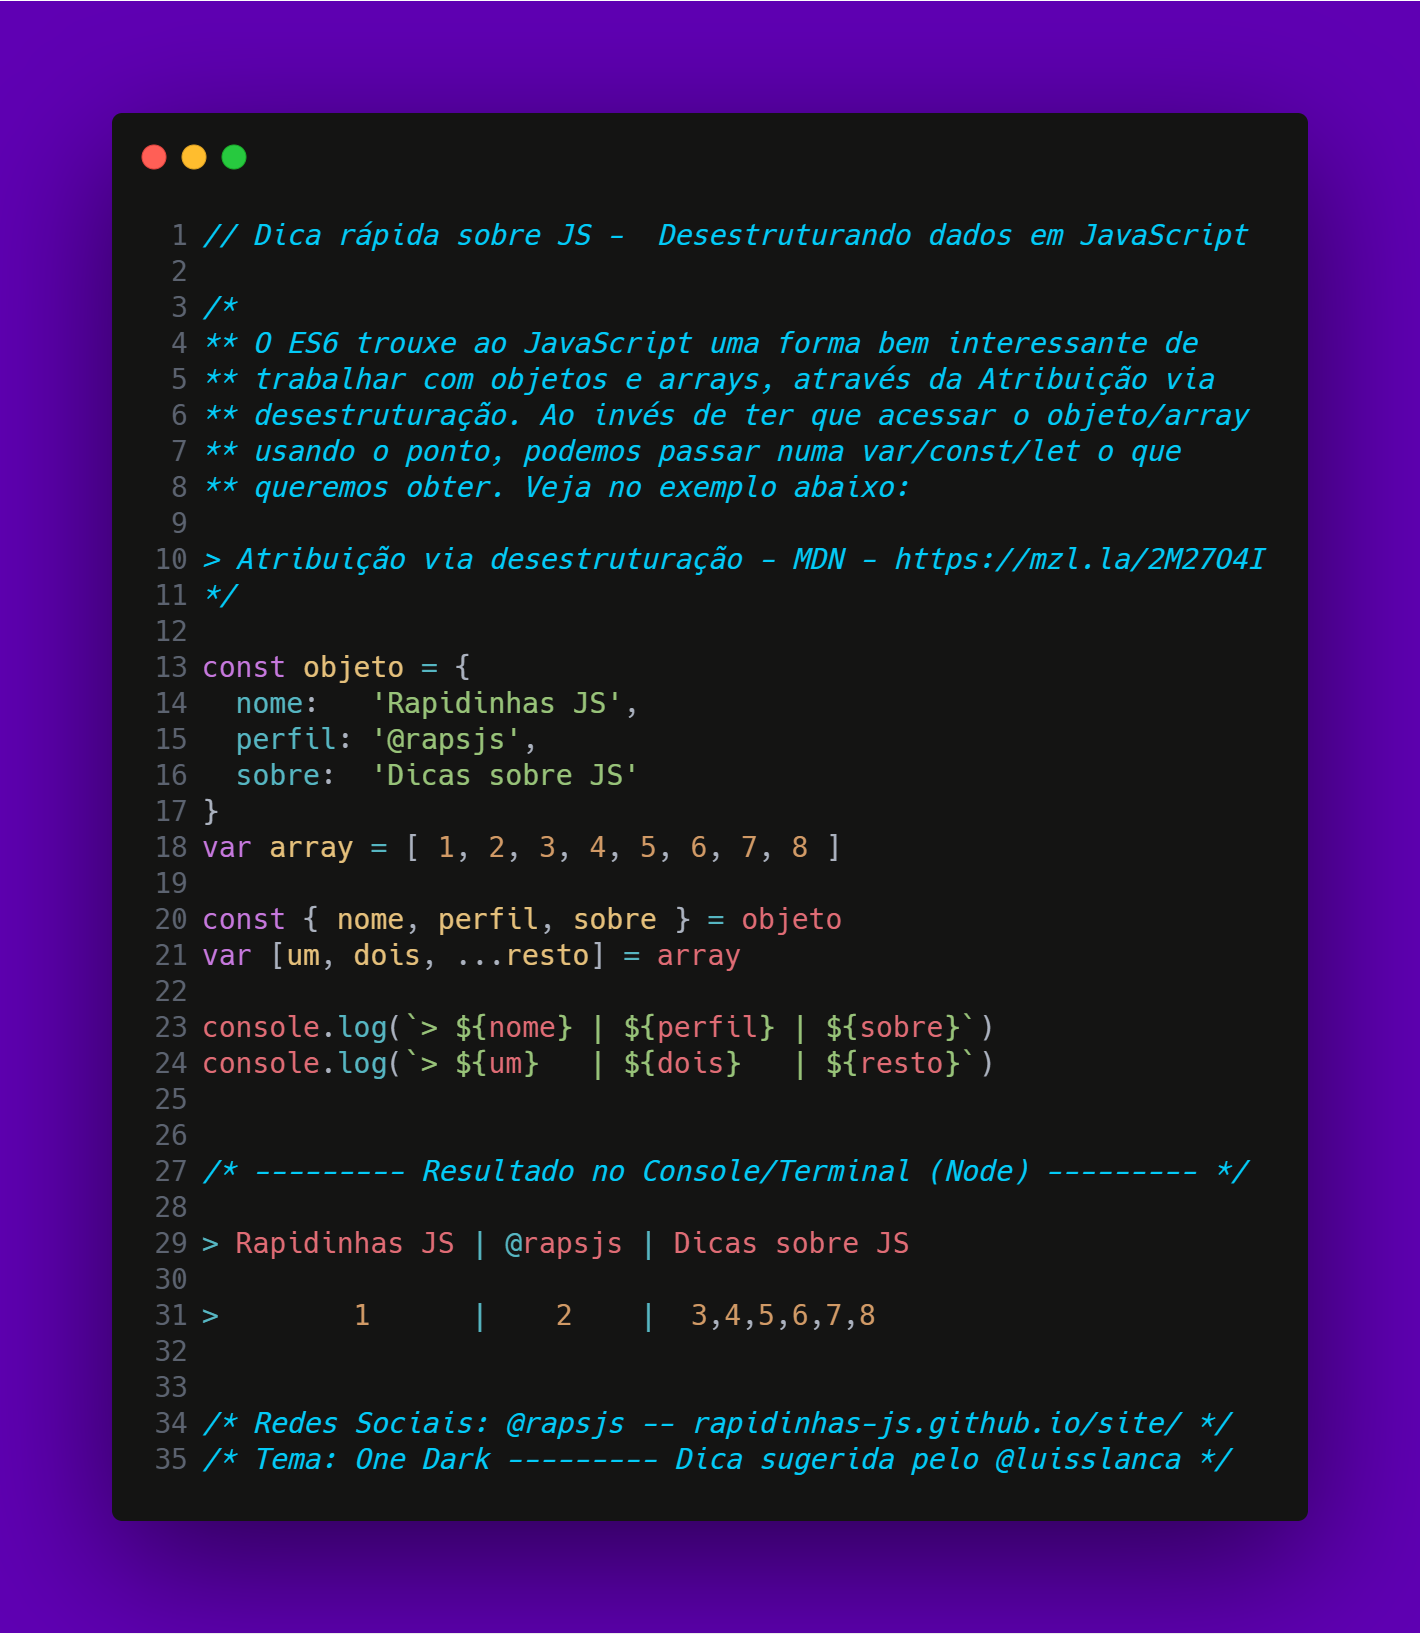
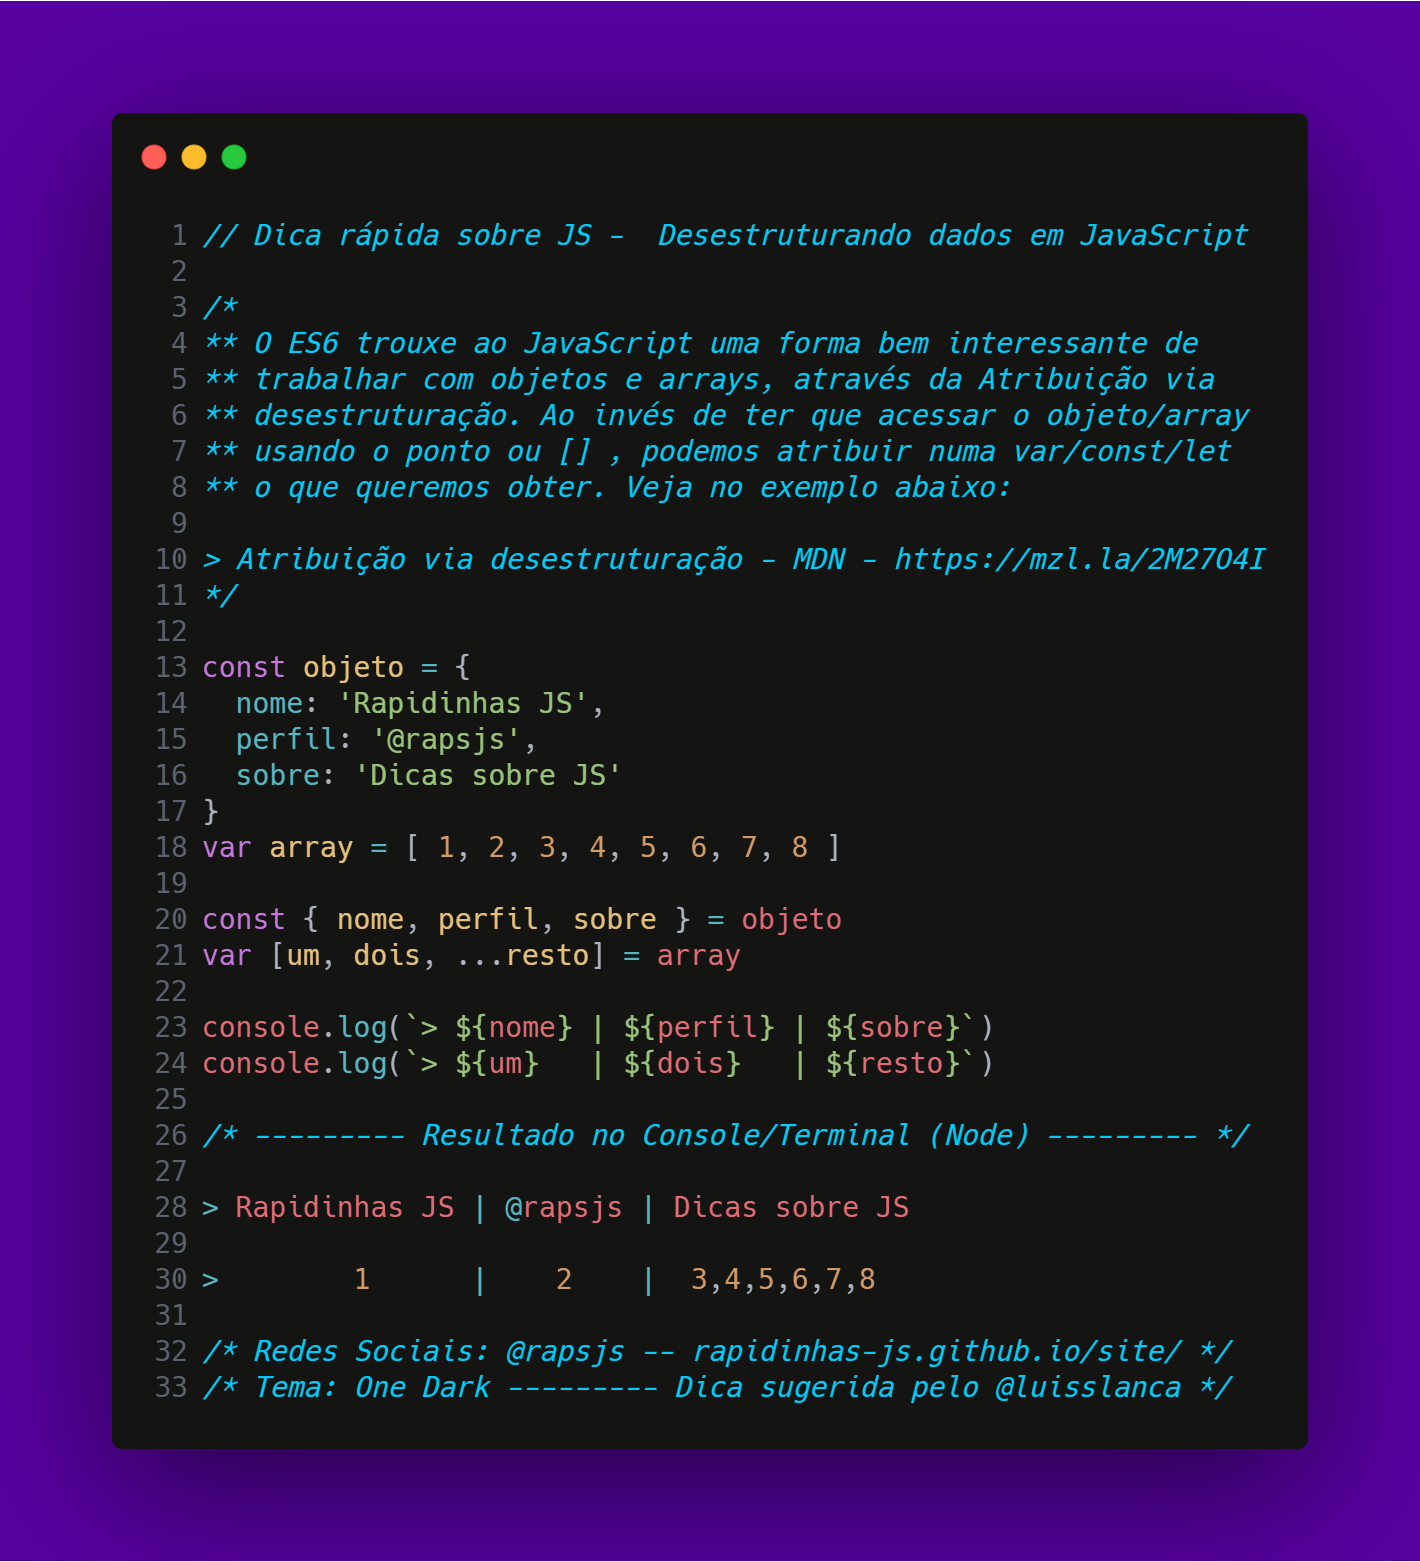
Correção da dica de desesrtuturação

diff --git a/Dicas/Desestruturacao/Desestruturacao.md b/Dicas/Desestruturacao/Desestruturacao.md
@@ -4,16 +4,16 @@
 ** O ES6 trouxe ao JavaScript uma forma bem interessante de 
 ** trabalhar com objetos e arrays, através da Atribuição via
 ** desestruturação. Ao invés de ter que acessar o objeto/array 
-** usando o ponto, podemos passar numa var/const/let o que 
-** queremos obter. Veja no exemplo abaixo:
+** usando o ponto ou [] , podemos atribuir numa var/const/let 
+** o que queremos obter. Veja no exemplo abaixo:
 
 > Atribuição via desestruturação - MDN - https://mzl.la/2M27O4I
 */
 
 const objeto = { 
-  nome:   'Rapidinhas JS', 
+  nome: 'Rapidinhas JS', 
   perfil: '@rapsjs', 
-  sobre:  'Dicas sobre JS'
+  sobre: 'Dicas sobre JS'
 }
 var array = [ 1, 2, 3, 4, 5, 6, 7, 8 ]
 
@@ -21,7 +21,6 @@ const { nome, perfil, sobre } = objeto
 var [um, dois, ...resto] = array
 
 console.log(`> ${nome} | ${perfil} | ${sobre}`)
-
 console.log(`> ${um}   | ${dois}   | ${resto}`)
 
 /* --------- Resultado no Console/Terminal (Node) --------- */
@@ -30,6 +29,5 @@ console.log(`> ${um}   | ${dois}   | ${resto}`)
 
 >        1 		| 	 2 	  |  3,4,5,6,7,8
 
-
 /* Redes Sociais: @rapsjs -- rapidinhas-js.github.io/site/ */
-/* Tema: One Dark ---------- Dica sugerida pelo @lancaluis */
+/* Tema: One Dark --------- Dica sugerida pelo @luisslanca */
